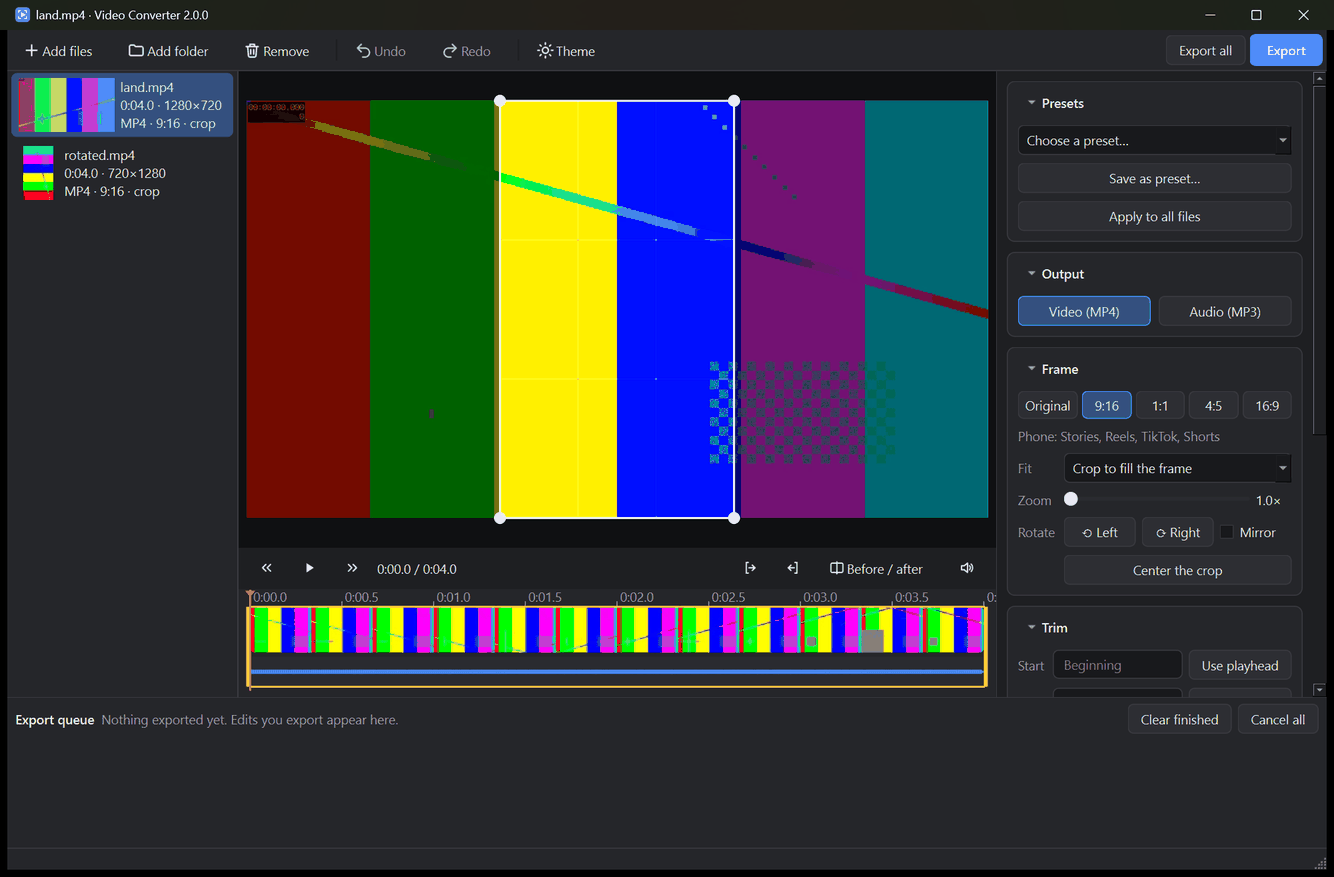
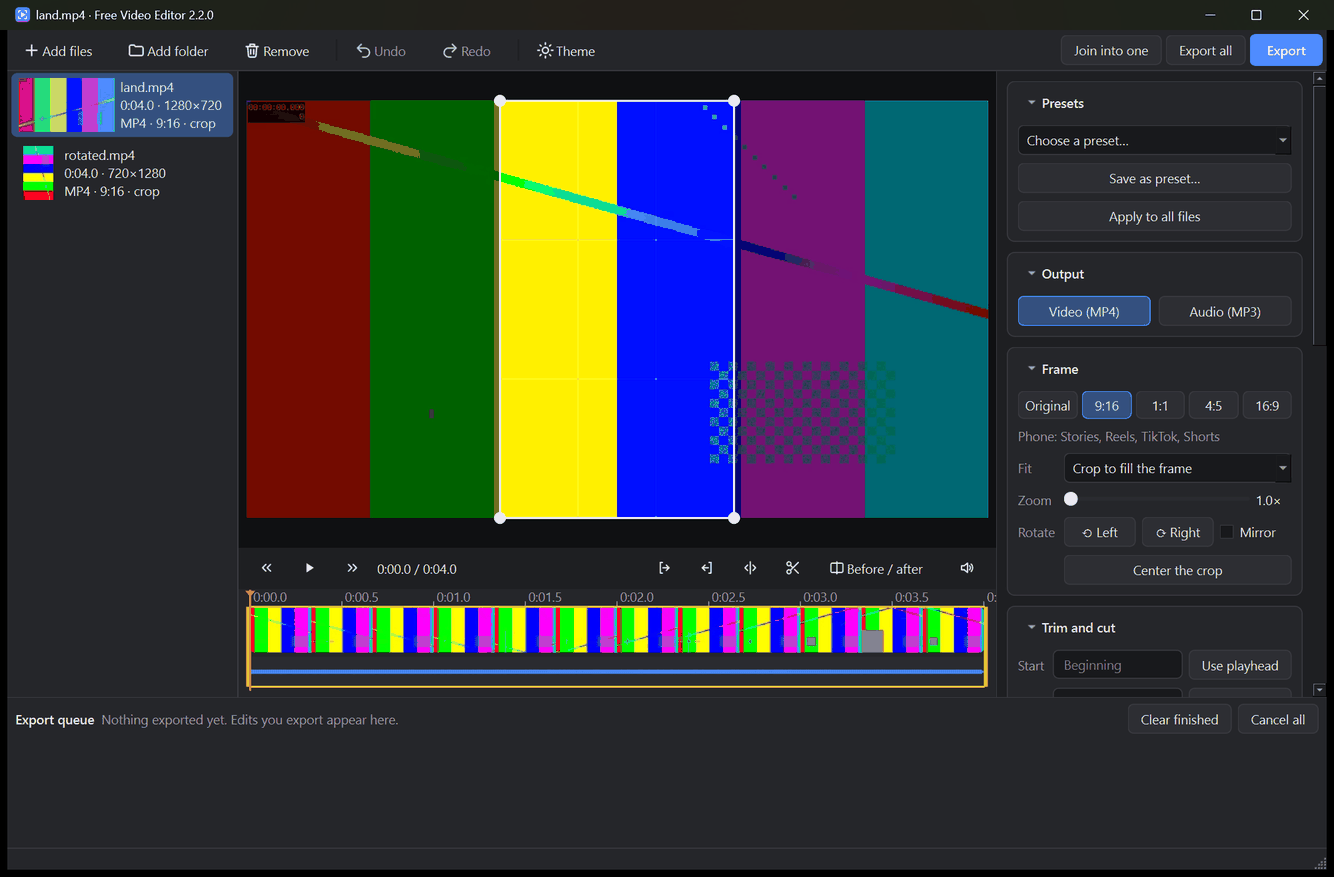
Release 2.2.0: Free Video Editor with faster thumbnails

diff --git a/video_converter/__init__.py b/video_converter/__init__.py
@@ -1,4 +1,4 @@
 """A local video editor and converter: reshape, crop, cut, join and speed up videos, or turn them into MP3s, with ffmpeg."""
 
-__version__ = "2.1.0"
+__version__ = "2.2.0"
 APP_NAME = "Free Video Editor"
